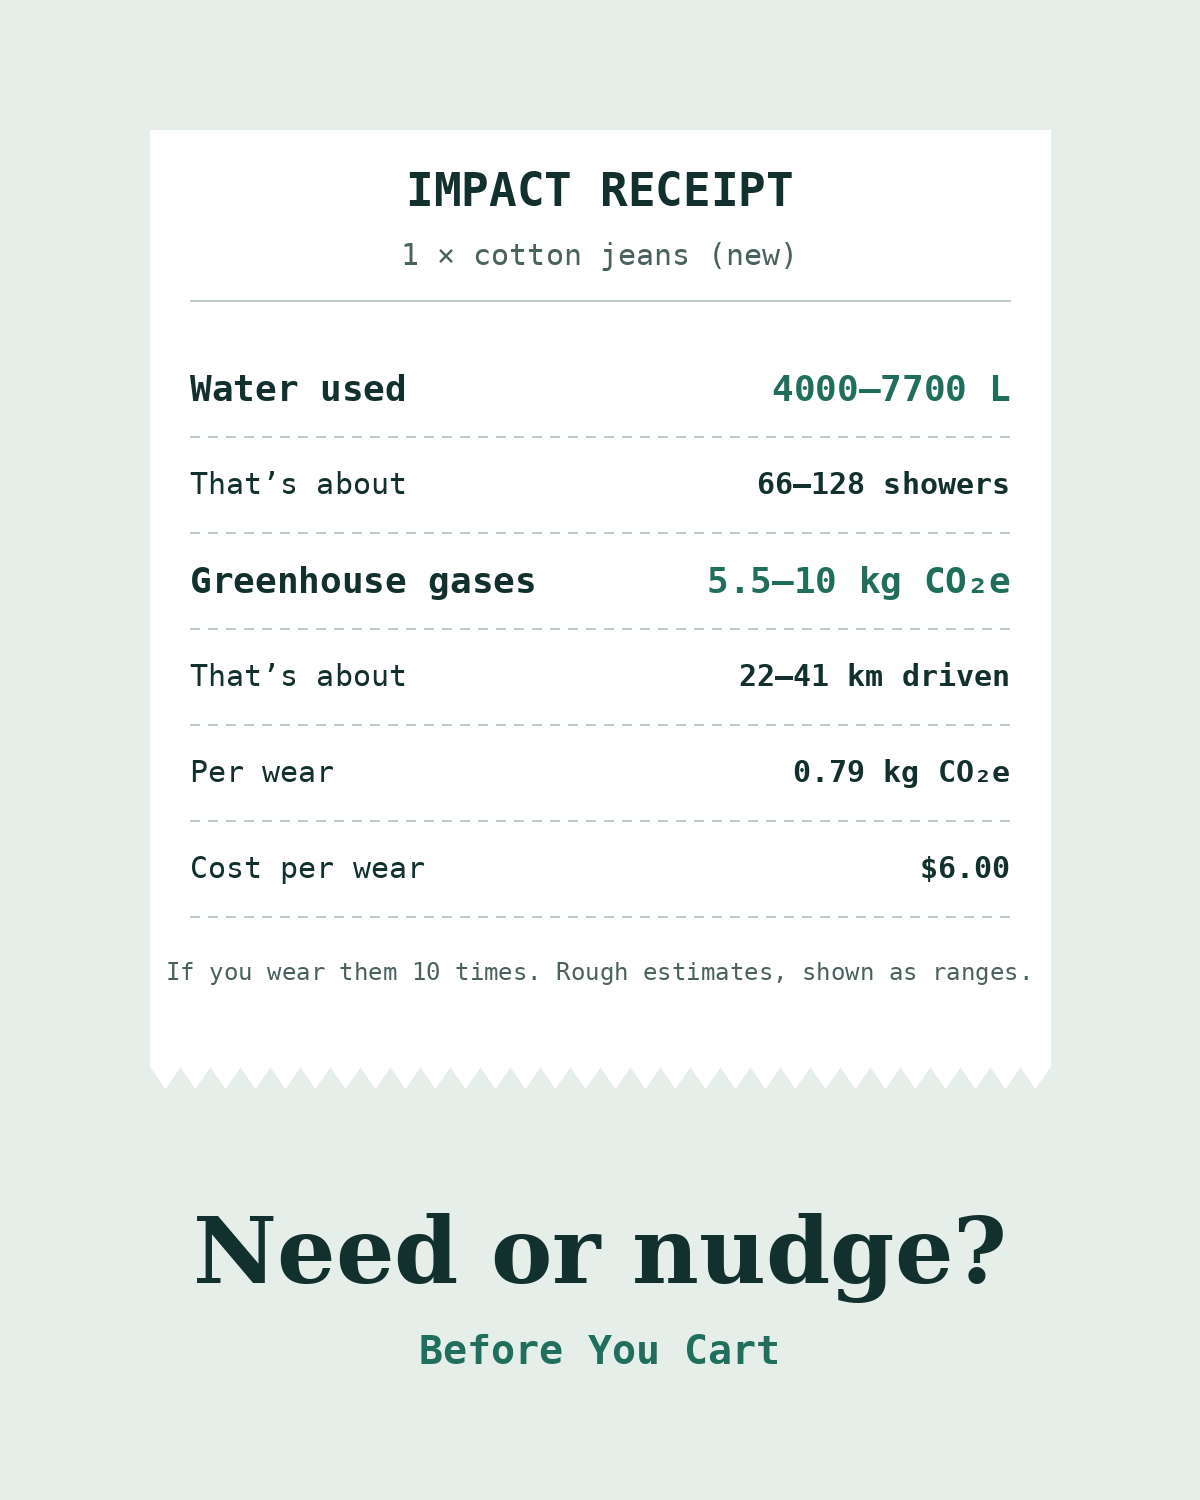
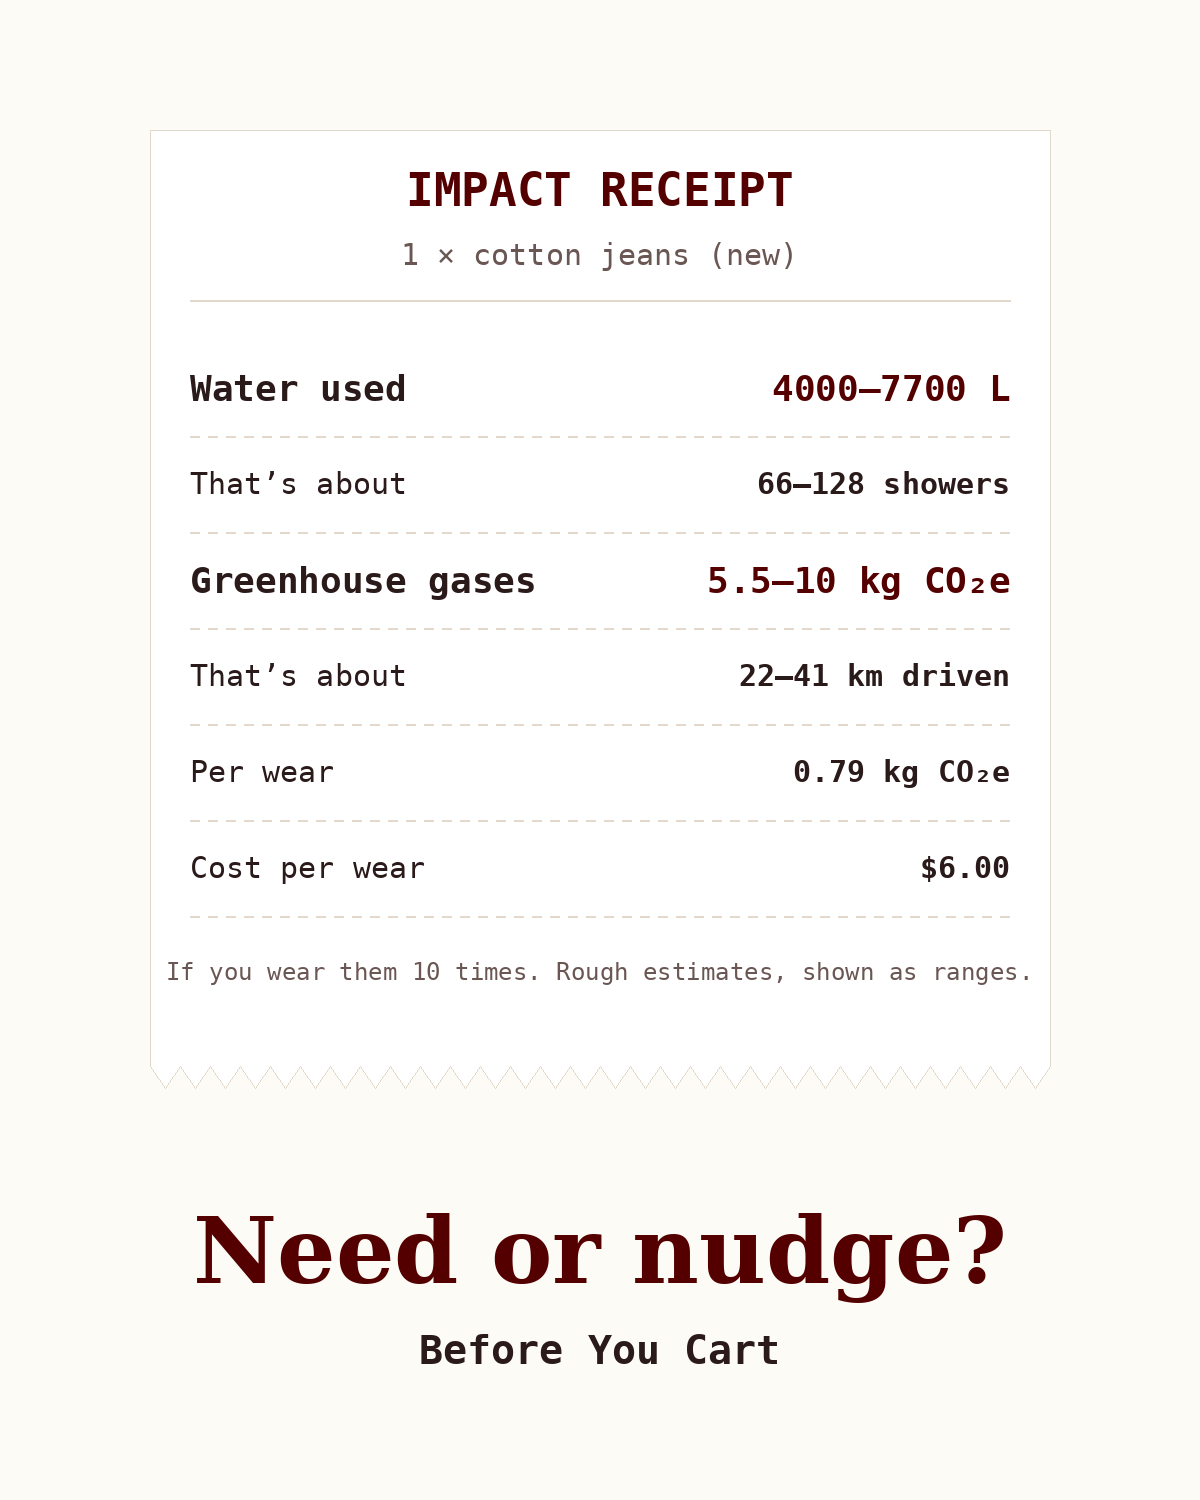
Add files via upload

diff --git a/index.html b/index.html
@@ -2,6 +2,7 @@
 <html lang="en">
 <head>
 <meta charset="utf-8">
+<meta name="theme-color" content="#550000">
 <meta name="viewport" content="width=device-width, initial-scale=1, viewport-fit=cover">
 <title>Before You Cart</title>
 <meta name="description" content="Get an impact receipt for what you are about to buy, and spot the sales tactics working on you. Rough estimates, shown as ranges. No trackers, no AI.">
@@ -14,10 +15,10 @@
 <meta name="twitter:image" content="https://super-future-visions.github.io/before-you-cart/preview.png">
 
 <style>
-:root{--bg:#E6EEEA;--paper:#FFFFFF;--ink:#12302D;--mute:#4A625E;--line:#BCCBC6;--accent:#1F6F5C;--accent-ink:#FFFFFF;--warn:#A8321F;
+:root{--bg:#FDFBF5;--paper:#FFFFFF;--ink:#2A1A1A;--mute:#6A5753;--line:#E3D8CC;--accent:#550000;--accent-ink:#FDFBF5;--warn:#B45309;
 box-sizing:border-box;padding-top:env(safe-area-inset-top,0px);padding-bottom:env(safe-area-inset-bottom,0px);color-scheme:light}
-@media (prefers-color-scheme:dark){:root:not([data-theme="light"]){--bg:#0D1A18;--paper:#162624;--ink:#E4EFEC;--mute:#9DB5B0;--line:#2C4440;--accent:#5CC4A8;--accent-ink:#0D1A18;--warn:#F08A76;color-scheme:dark}}
-:root[data-theme="dark"]{--bg:#0D1A18;--paper:#162624;--ink:#E4EFEC;--mute:#9DB5B0;--line:#2C4440;--accent:#5CC4A8;--accent-ink:#0D1A18;--warn:#F08A76;color-scheme:dark}
+@media (prefers-color-scheme:dark){:root:not([data-theme="light"]){--bg:#1C0E0E;--paper:#2A1515;--ink:#F6EEE6;--mute:#CDB8B1;--line:#4D2C2C;--accent:#F0B4B4;--accent-ink:#2A0A0A;--warn:#F3B562;color-scheme:dark}}
+:root[data-theme="dark"]{--bg:#1C0E0E;--paper:#2A1515;--ink:#F6EEE6;--mute:#CDB8B1;--line:#4D2C2C;--accent:#F0B4B4;--accent-ink:#2A0A0A;--warn:#F3B562;color-scheme:dark}
 html{scroll-padding-top:env(safe-area-inset-top,0px)}
 *{box-sizing:border-box}
 body{margin:0;background:var(--bg);color:var(--ink);font:17px/1.55 system-ui,-apple-system,"Segoe UI",sans-serif}
@@ -56,6 +57,7 @@ footer p{margin:8px 0}
 .badge{display:inline-block;border:1px solid var(--line);border-radius:8px;padding:10px 14px;background:var(--paper);color:var(--ink);margin:6px 0}
 
 .deep>summary{cursor:pointer;font:700 1.15rem/1.3 Georgia,"Iowan Old Style",serif}.deep[open]>summary{margin-bottom:12px}.deep>summary:focus-visible{outline:3px solid var(--accent);outline-offset:2px}
+h1,h2{color:var(--accent)}
 </style>
 </head>
 <body>
